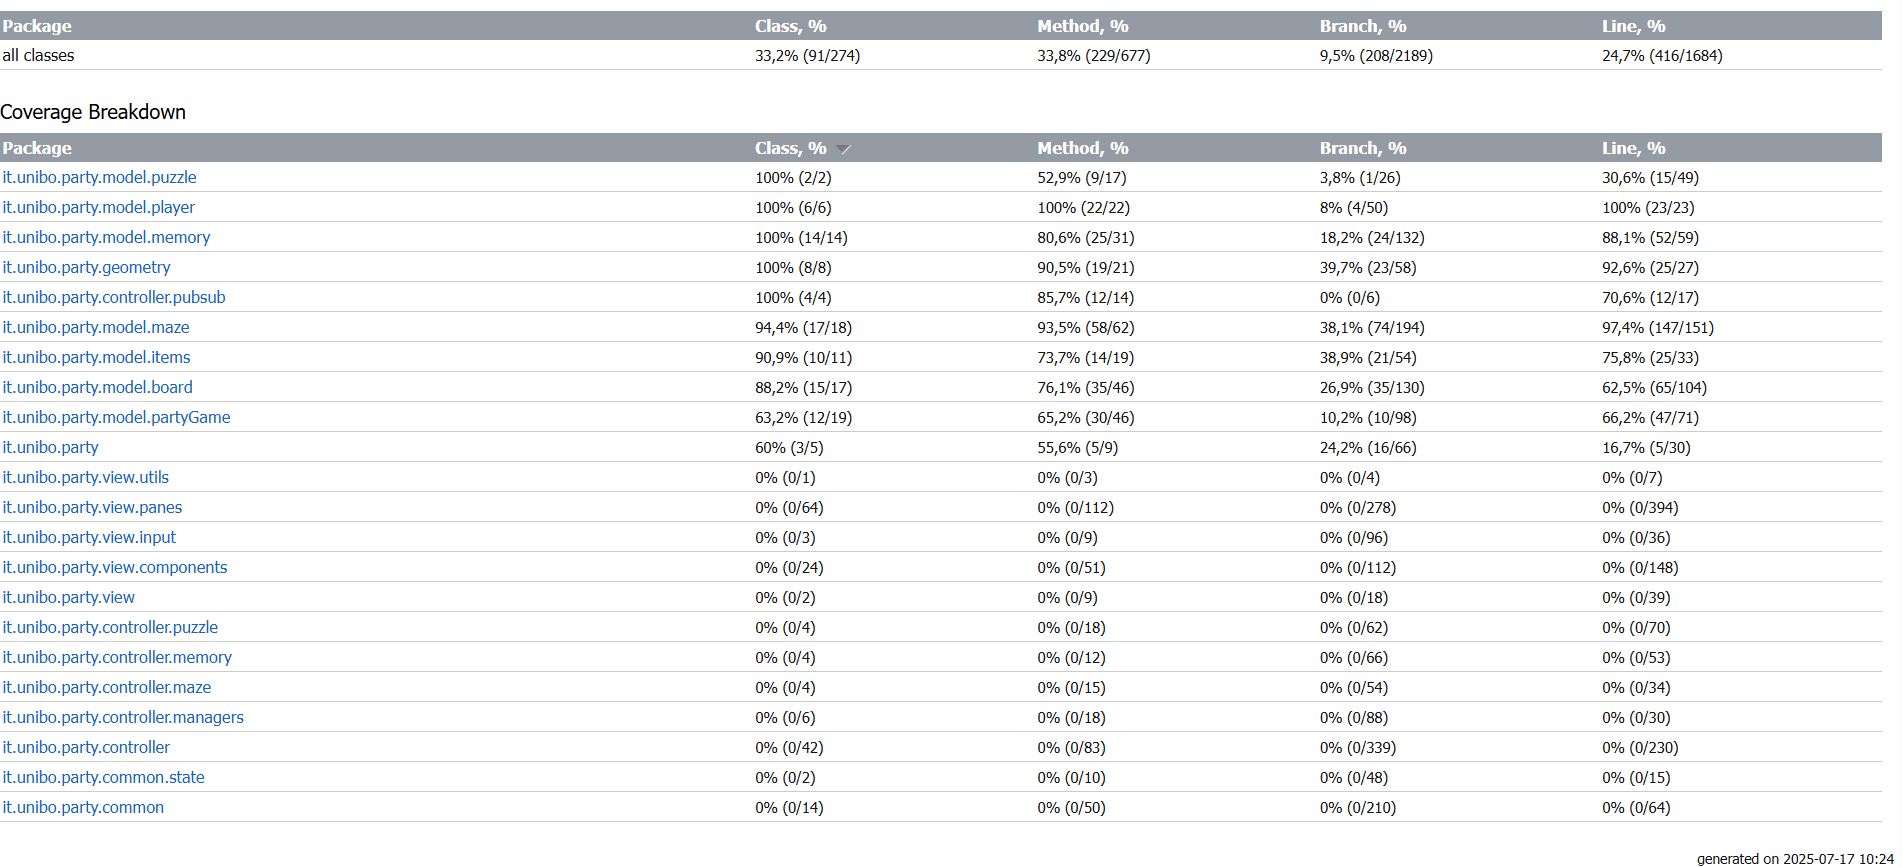
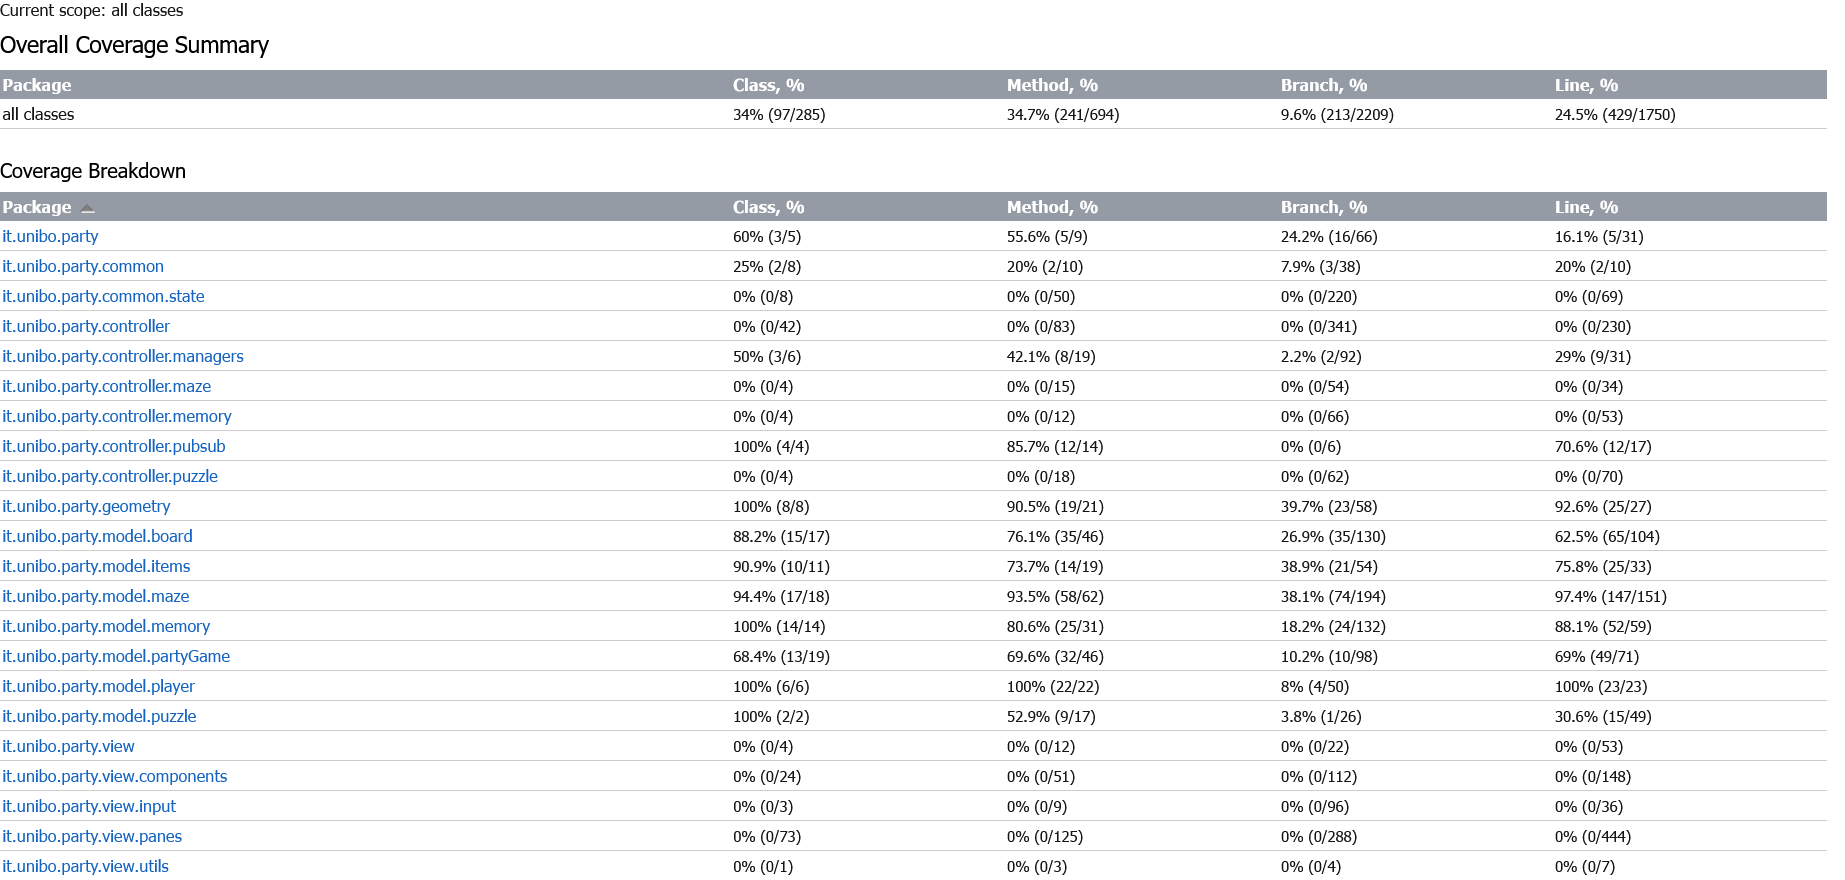
refactor: update testing coverage details and remove obsolete class diagram

Changed region(s): [[0.0, 0.0, 1.0, 0.9965]]

diff --git a/report/sections/testing.tex b/report/sections/testing.tex
@@ -6,7 +6,7 @@ test in modo semplice e  chiaro in modo che i test siano facilmente comprensibil
 e permette di eseguire i test direttamente dall'IDE, rendendo il processo di testing più veloce.
 
 \subsection{Grado di copertura} \label{subsec:testing-coverage}
-Il grado di copertura dei test è del 33\%, come mostrato anche a Figura \ref{fig:coverage-report}. Analizzando meglio il report,
+Il grado di copertura dei test è del 34\%, come mostrato anche a Figura \ref{fig:coverage-report}. Analizzando meglio il report,
 si può notare che, considerando solo le classi di model e di geometry, il grado di copertura sale all'88\%. Questo è dovuto al fatto
 che, utlizzando un approccio TDD (Test Driven Development), e cominciando a progrmmare partendo dalle classi di model, queste sono
 state testate in modo approfondito; le classi di view e controller, invece, sono state testate in modo meno approfondito perchè non
@@ -31,12 +31,12 @@ labirinto per il minigioco maze.
 
 \begin{lstlisting}[language=Scala]
     it should "not allow a maze that is not solvable" in:
-    val builder: MazeBuilder = MazeBuilder.construct(mazeDimensions._1, mazeDimensions._2):
-      W | W | E | W | W
-      W | * | * | * | W
-      W | * | W | W | W
-      W | * | W | W | W
-      W | W | X | W | W
-    an[IllegalArgumentException] should be thrownBy builder.build()
+      val builder: MazeBuilder = MazeBuilder.construct(mazeDimensions._1, mazeDimensions._2):
+        W | W | E | W | W
+        W | * | * | * | W
+        W | * | W | W | W
+        W | * | W | W | W
+        W | W | X | W | W
+      an[IllegalArgumentException] should be thrownBy builder.build()
 \end{lstlisting}
 
